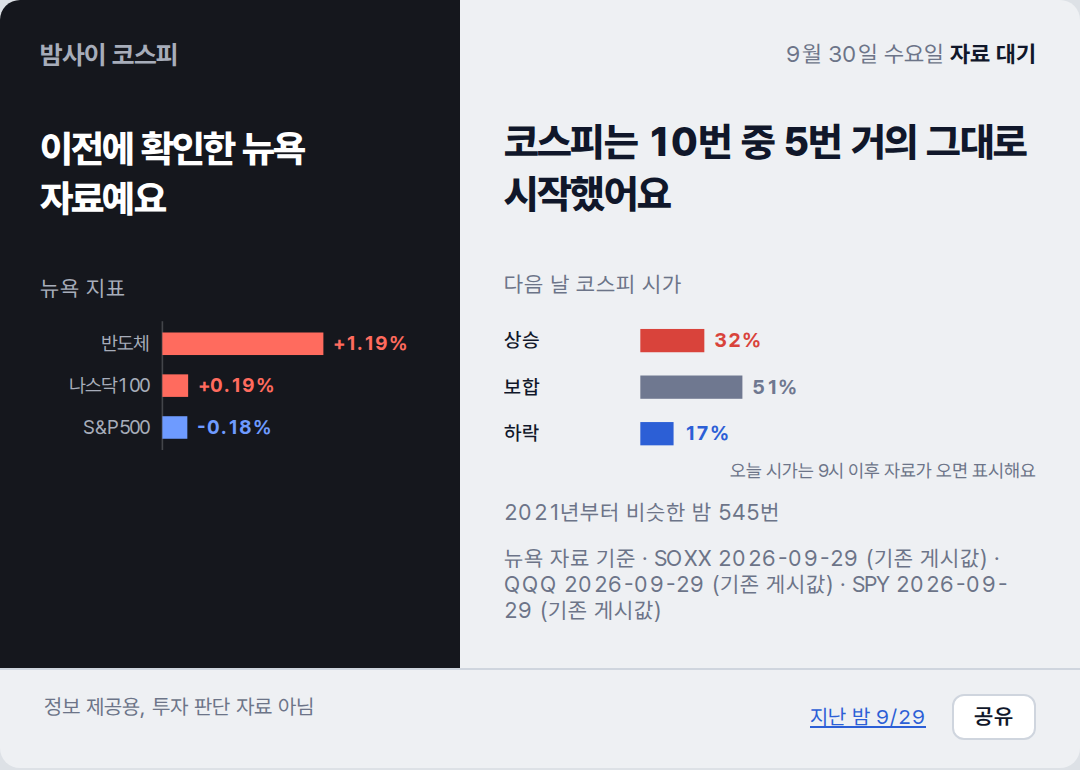
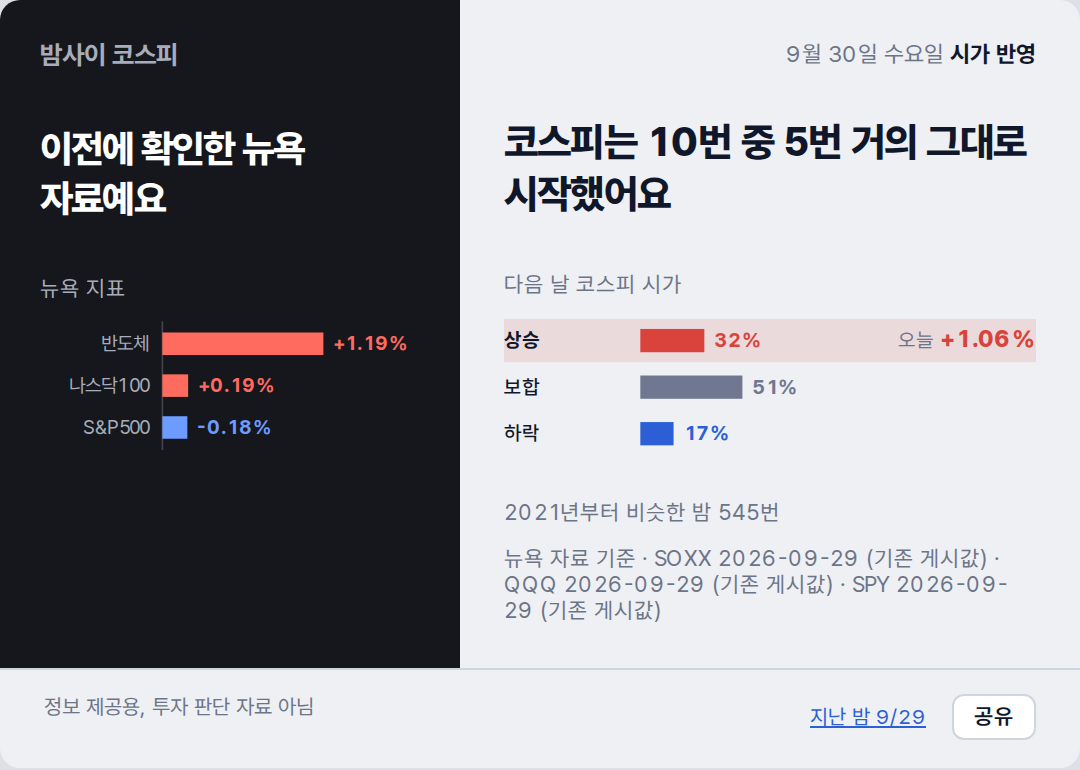
deploy: c0d07a214321b41f7cf333fef670b17ffe5b5852

diff --git a/2026-09-30/index.html b/2026-09-30/index.html
@@ -38,17 +38,18 @@ footer a{color:#2C5FD6}
 <rect x="76" y="61" width="15.5" height="14" fill="var(--down)"/>
 <text x="97.5" y="72" fill="var(--down)" font-weight="700">-0.18%</text>
 </svg></section>
-<section class="day"><p class="stamp">9월 30일 수요일 <b>자료 대기</b></p><p class="claim">코스피는 10번 중 5번 거의 그대로 시작했어요</p><p class="lab">다음 날 코스피 시가</p><svg viewBox="0 0 320 100" xmlns="http://www.w3.org/2000/svg" font-family="var(--sans)" font-size="12">
-<text x="0" y="20" fill="var(--ink)" font-weight="500">상승</text>
+<section class="day"><p class="stamp">9월 30일 수요일 <b>시가 반영</b></p><p class="claim">코스피는 10번 중 5번 거의 그대로 시작했어요</p><p class="lab">다음 날 코스피 시가</p><svg viewBox="0 0 320 100" xmlns="http://www.w3.org/2000/svg" font-family="var(--sans)" font-size="12">
+<rect x="0" y="3" width="320" height="26" fill="var(--up)" opacity=".12"/>
+<text x="0" y="20" fill="var(--ink)" font-weight="700">상승</text>
 <rect x="82" y="9" width="38.5" height="14" fill="var(--up)"/>
 <text x="126.5" y="20" fill="var(--up)" font-weight="700">32%</text>
+<text x="320" y="20" text-anchor="end" fill="var(--ink)"><tspan fill="var(--muted)">오늘 </tspan><tspan font-weight="800" font-size="14" fill="var(--up)">+1.06%</tspan></text>
 <text x="0" y="48" fill="var(--ink)" font-weight="500">보합</text>
 <rect x="82" y="37" width="61.4" height="14" fill="var(--flat)"/>
 <text x="149.4" y="48" fill="var(--flat)" font-weight="700">51%</text>
 <text x="0" y="76" fill="var(--ink)" font-weight="500">하락</text>
 <rect x="82" y="65" width="20.0" height="14" fill="var(--down)"/>
 <text x="108.0" y="76" fill="var(--down)" font-weight="700">17%</text>
-<text x="320" y="98" text-anchor="end" fill="var(--muted)" font-size="11">오늘 시가는 9시 이후 자료가 오면 표시해요</text>
 </svg><p class="cap">2021년부터 비슷한 밤 545번</p><p class="cap">뉴욕 자료 기준 · SOXX 2026-09-29 (기존 게시값) · QQQ 2026-09-29 (기존 게시값) · SPY 2026-09-29 (기존 게시값)</p></section>
 <footer><span>정보 제공용, 투자 판단 자료 아님</span><span style="white-space:nowrap"><a href="../2026-09-29/">지난 밤 9/29</a> <button class="share" type="button">공유</button></span></footer>
 <script>

diff --git a/index.html b/index.html
@@ -38,17 +38,18 @@ footer a{color:#2C5FD6}
 <rect x="76" y="61" width="15.5" height="14" fill="var(--down)"/>
 <text x="97.5" y="72" fill="var(--down)" font-weight="700">-0.18%</text>
 </svg></section>
-<section class="day"><p class="stamp">9월 30일 수요일 <b>자료 대기</b></p><p class="claim">코스피는 10번 중 5번 거의 그대로 시작했어요</p><p class="lab">다음 날 코스피 시가</p><svg viewBox="0 0 320 100" xmlns="http://www.w3.org/2000/svg" font-family="var(--sans)" font-size="12">
-<text x="0" y="20" fill="var(--ink)" font-weight="500">상승</text>
+<section class="day"><p class="stamp">9월 30일 수요일 <b>시가 반영</b></p><p class="claim">코스피는 10번 중 5번 거의 그대로 시작했어요</p><p class="lab">다음 날 코스피 시가</p><svg viewBox="0 0 320 100" xmlns="http://www.w3.org/2000/svg" font-family="var(--sans)" font-size="12">
+<rect x="0" y="3" width="320" height="26" fill="var(--up)" opacity=".12"/>
+<text x="0" y="20" fill="var(--ink)" font-weight="700">상승</text>
 <rect x="82" y="9" width="38.5" height="14" fill="var(--up)"/>
 <text x="126.5" y="20" fill="var(--up)" font-weight="700">32%</text>
+<text x="320" y="20" text-anchor="end" fill="var(--ink)"><tspan fill="var(--muted)">오늘 </tspan><tspan font-weight="800" font-size="14" fill="var(--up)">+1.06%</tspan></text>
 <text x="0" y="48" fill="var(--ink)" font-weight="500">보합</text>
 <rect x="82" y="37" width="61.4" height="14" fill="var(--flat)"/>
 <text x="149.4" y="48" fill="var(--flat)" font-weight="700">51%</text>
 <text x="0" y="76" fill="var(--ink)" font-weight="500">하락</text>
 <rect x="82" y="65" width="20.0" height="14" fill="var(--down)"/>
 <text x="108.0" y="76" fill="var(--down)" font-weight="700">17%</text>
-<text x="320" y="98" text-anchor="end" fill="var(--muted)" font-size="11">오늘 시가는 9시 이후 자료가 오면 표시해요</text>
 </svg><p class="cap">2021년부터 비슷한 밤 545번</p><p class="cap">뉴욕 자료 기준 · SOXX 2026-09-29 (기존 게시값) · QQQ 2026-09-29 (기존 게시값) · SPY 2026-09-29 (기존 게시값)</p></section>
 <footer><span>정보 제공용, 투자 판단 자료 아님</span><span style="white-space:nowrap"><a href="./2026-09-29/">지난 밤 9/29</a> <button class="share" type="button">공유</button></span></footer>
 <script>
